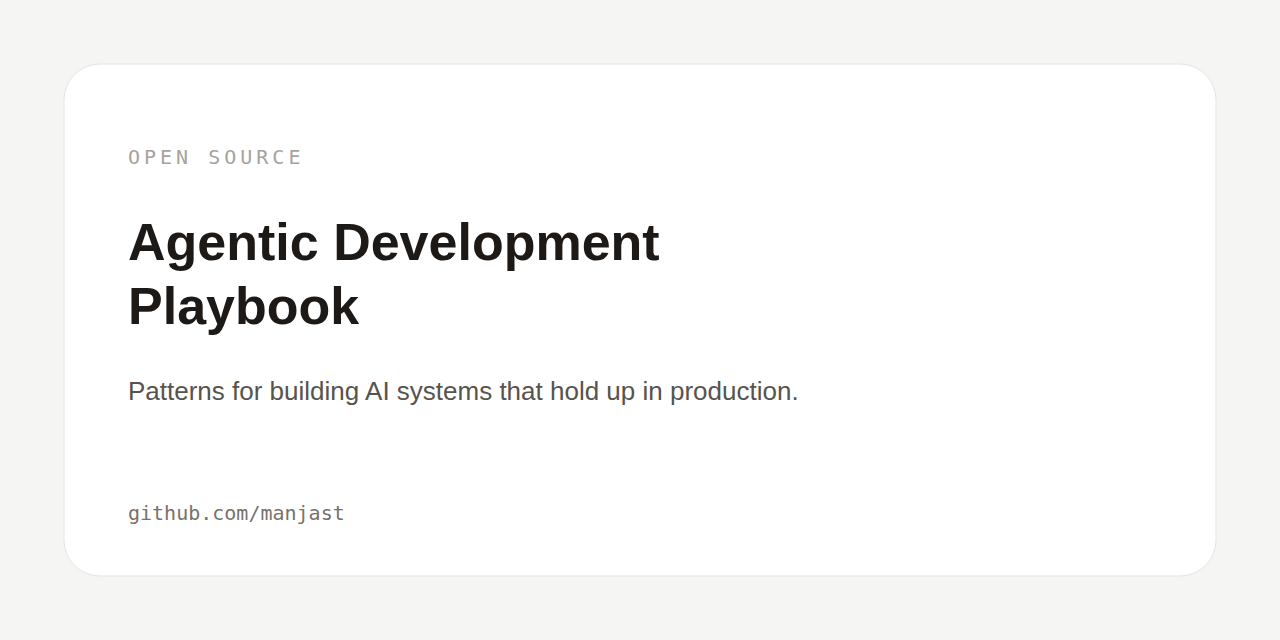
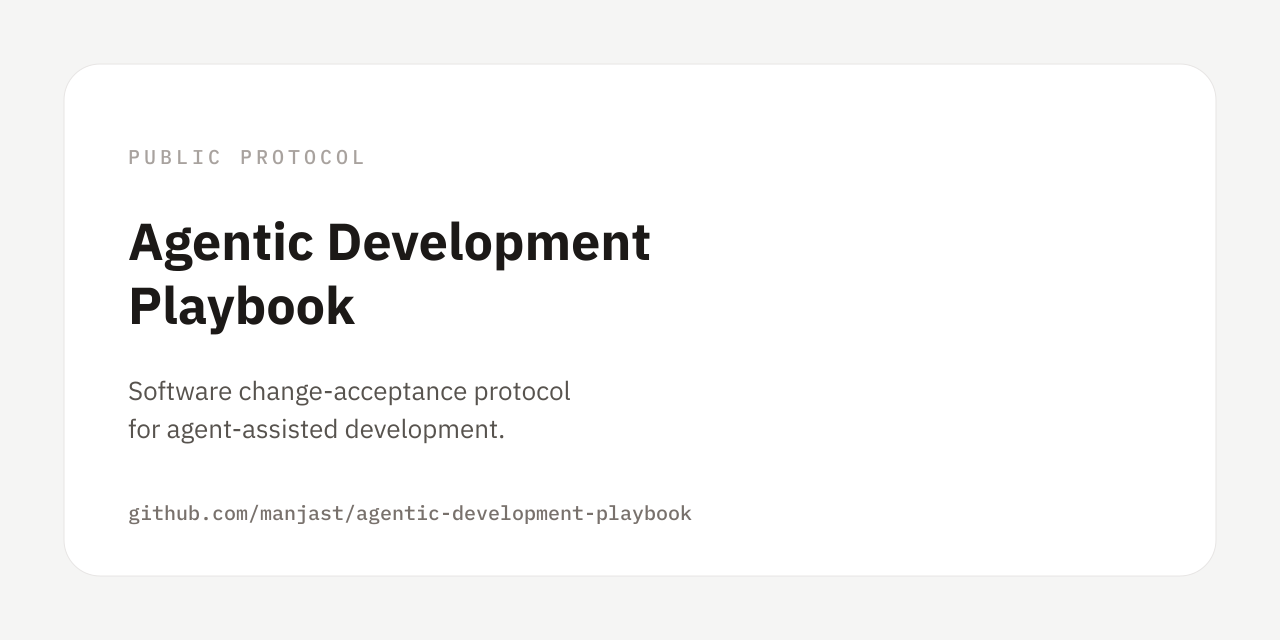
docs: align Playbook companion with change-acceptance protocol (#94)

diff --git a/README.md b/README.md
@@ -27,7 +27,7 @@ Writing is English-only on the site. The Serbian language switcher on `/writing`
 - `src/components/blog/` — shared chart components for blog posts: `BarChart`, `Distribution`, `FiveStep`, `TwoRowFlow`.
 - `public/llms.txt` — LLM-readable site index. Lists primary pages, case studies, writing, and the Serbian Cyrillic mirror.
 
-A featured methodology artifact is surfaced from the home page but lives in a separate companion repository: [manjast/agentic-development-playbook](https://github.com/manjast/agentic-development-playbook).
+The [Agentic Development Playbook](https://github.com/manjast/agentic-development-playbook) is a small written software change-acceptance protocol for agent-assisted development. The home and About pages link to it as supporting evidence of engineering method and judgment; case studies remain the primary delivery proof.
 
 ## Project standards
 
